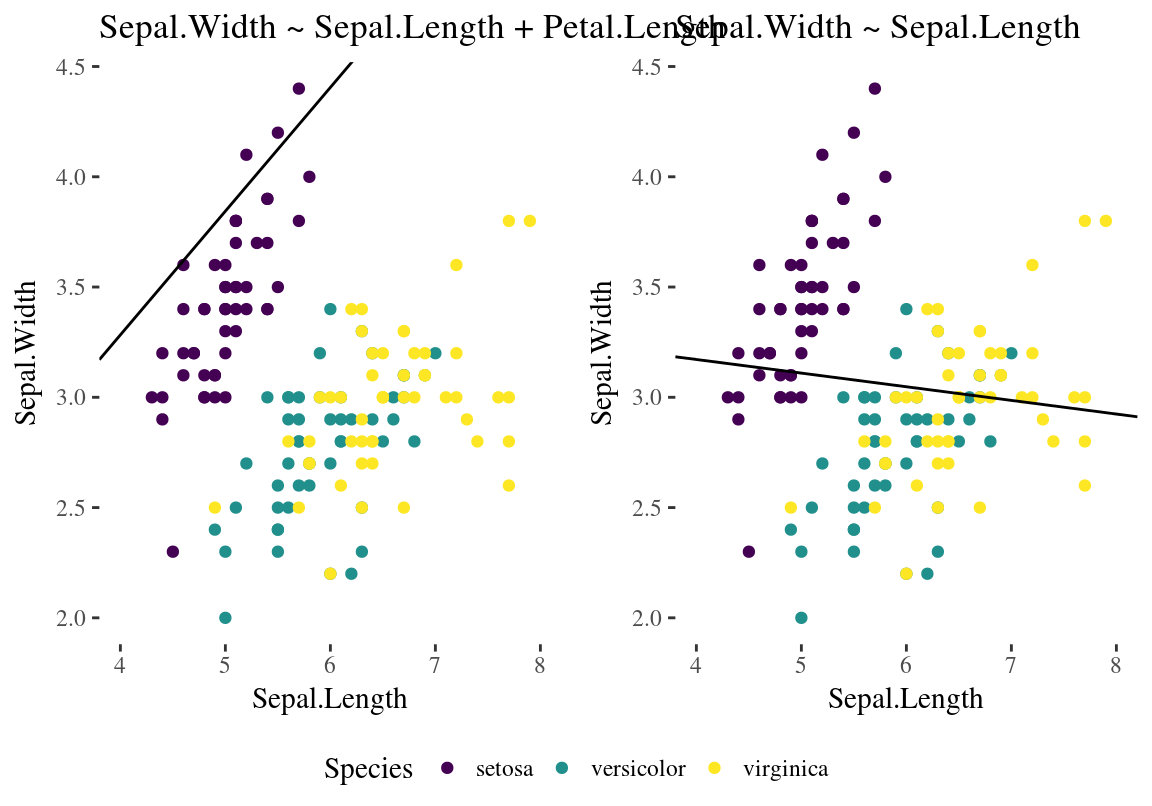
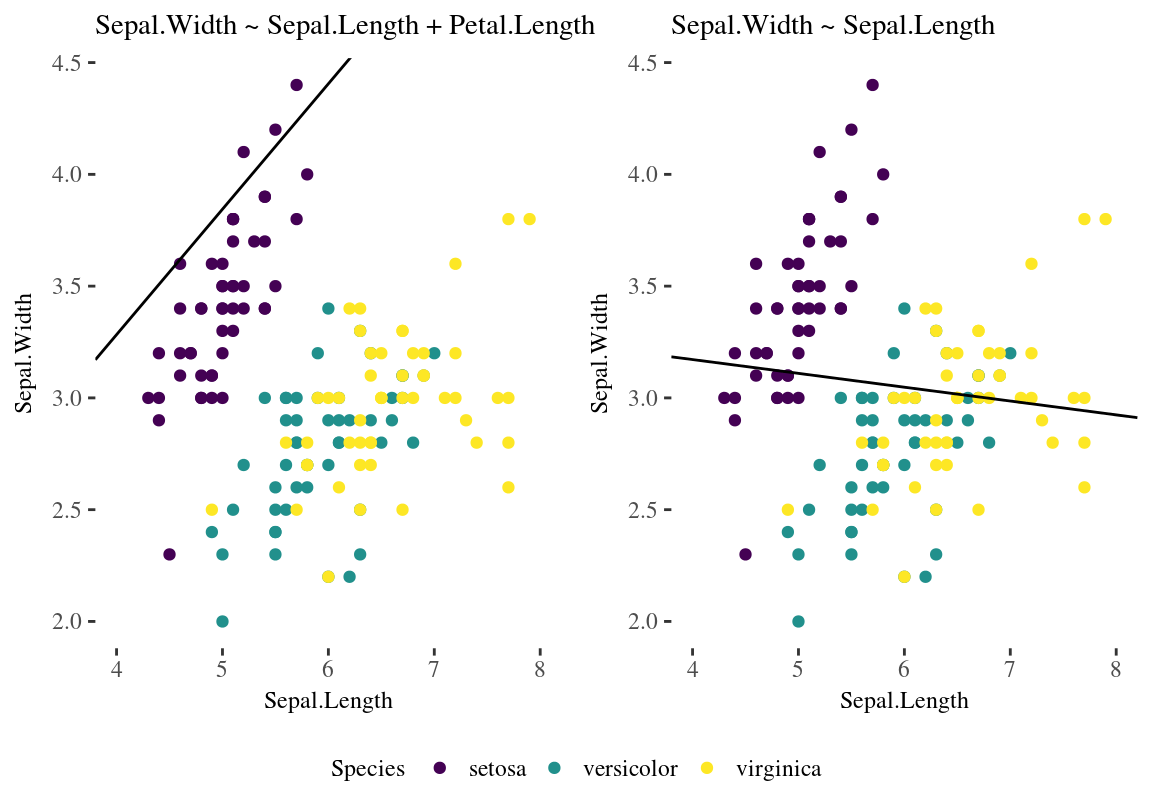
Update the book

diff --git a/kaks-lineaarse-mudeli-laiendust.html b/kaks-lineaarse-mudeli-laiendust.html
@@ -253,15 +253,17 @@ Joonis 5.1: Regressioonitasand 3D andmetele. Kahe prediktoriga mudel, kus Sepal.
 <div class="sourceCode"><pre class="sourceCode r"><code class="sourceCode r">p &lt;-<span class="st"> </span><span class="kw">ggplot</span>(iris, <span class="kw">aes</span>(Sepal.Length, Sepal.Width, <span class="dt">color =</span> Species)) <span class="op">+</span>
 <span class="st">  </span><span class="kw">geom_point</span>() <span class="op">+</span>
 <span class="st">  </span><span class="kw">xlim</span>(<span class="dv">4</span>, <span class="dv">8</span>) <span class="op">+</span>
-<span class="st">  </span><span class="kw">scale_color_viridis</span>(<span class="dt">discrete =</span> <span class="ot">TRUE</span>)
+<span class="st">  </span><span class="kw">scale_color_viridis</span>(<span class="dt">discrete =</span> <span class="ot">TRUE</span>) <span class="op">+</span>
+<span class="st">  </span><span class="kw">theme</span>(<span class="dt">title =</span> <span class="kw">element_text</span>(<span class="dt">size =</span> <span class="dv">9</span>))
 p1 &lt;-<span class="st"> </span>p <span class="op">+</span><span class="st"> </span><span class="kw">geom_abline</span>(<span class="dt">intercept =</span> <span class="kw">coef</span>(m2)[<span class="dv">1</span>], <span class="dt">slope =</span> <span class="kw">coef</span>(m2)[<span class="dv">2</span>]) <span class="op">+</span>
 <span class="st">  </span><span class="kw">labs</span>(<span class="dt">title =</span> <span class="kw">deparse</span>(<span class="kw">formula</span>(m2)))
 m1 &lt;-<span class="st"> </span><span class="kw">lm</span>(Sepal.Width <span class="op">~</span><span class="st"> </span>Sepal.Length, <span class="dt">data =</span> iris)
 p2 &lt;-<span class="st"> </span>p <span class="op">+</span><span class="st"> </span><span class="kw">geom_abline</span>(<span class="dt">intercept =</span> <span class="kw">coef</span>(m1)[<span class="dv">1</span>], <span class="dt">slope =</span> <span class="kw">coef</span>(m1)[<span class="dv">2</span>]) <span class="op">+</span>
 <span class="st">  </span><span class="kw">labs</span>(<span class="dt">title =</span> <span class="kw">deparse</span>(<span class="kw">formula</span>(m1)))
+devtools<span class="op">::</span><span class="kw">source_gist</span>(<span class="st">&quot;8b4d6ab6a333ef1cd14e8067c3badbae&quot;</span>, <span class="dt">filename =</span> <span class="st">&quot;grid_arrange_shared_legend.R&quot;</span>)
 <span class="kw">grid_arrange_shared_legend</span>(p1, p2)</code></pre></div>
 <div class="figure" style="text-align: center"><span id="fig:lin2d"></span>
-<img src="05_lin_mudeli_laiendused_files/figure-html/lin2d-1.png" alt="2D-le kollapseeritud graafiline kujutus 3D andmete põhjal fititud mudelist. Vasemal, muutuja Petal.Length on kollapseeritud konstandile. Siin on regressioonijoon hoopis teises kohas, kui lihtsas ühe prediktoriga mudelis (paremal)." width="100%" />
+<img src="05_lin_mudeli_laiendused_files/figure-html/lin2d-1.png" alt="2D-le kollapseeritud graafiline kujutus 3D andmete põhjal fititud mudelist. Vasemal, muutuja Petal.Length on kollapseeritud konstandile. Siin on regressioonijoon hoopis teises kohas, kui lihtsas ühe prediktoriga mudelis (paremal)." width="70%" />
 <p class="caption">
 Joonis 5.2: 2D-le kollapseeritud graafiline kujutus 3D andmete põhjal fititud mudelist. Vasemal, muutuja Petal.Length on kollapseeritud konstandile. Siin on regressioonijoon hoopis teises kohas, kui lihtsas ühe prediktoriga mudelis (paremal).
 </p>

diff --git a/05_lin_mudeli_laiendused.md b/05_lin_mudeli_laiendused.md
@@ -45,17 +45,19 @@ Seda mudelit saab kaeda 2D ruumis, kui kollapseerida kolmas mõõde konstandile.
 p <- ggplot(iris, aes(Sepal.Length, Sepal.Width, color = Species)) +
   geom_point() +
   xlim(4, 8) +
-  scale_color_viridis(discrete = TRUE)
+  scale_color_viridis(discrete = TRUE) +
+  theme(title = element_text(size = 9))
 p1 <- p + geom_abline(intercept = coef(m2)[1], slope = coef(m2)[2]) +
   labs(title = deparse(formula(m2)))
 m1 <- lm(Sepal.Width ~ Sepal.Length, data = iris)
 p2 <- p + geom_abline(intercept = coef(m1)[1], slope = coef(m1)[2]) +
   labs(title = deparse(formula(m1)))
+devtools::source_gist("8b4d6ab6a333ef1cd14e8067c3badbae", filename = "grid_arrange_shared_legend.R")
 grid_arrange_shared_legend(p1, p2)
 ```
 
 <div class="figure" style="text-align: center">
-<img src="05_lin_mudeli_laiendused_files/figure-html/lin2d-1.png" alt="(ref:lin2d)" width="100%" />
+<img src="05_lin_mudeli_laiendused_files/figure-html/lin2d-1.png" alt="(ref:lin2d)" width="70%" />
 <p class="caption">(\#fig:lin2d)(ref:lin2d)</p>
 </div>
 
